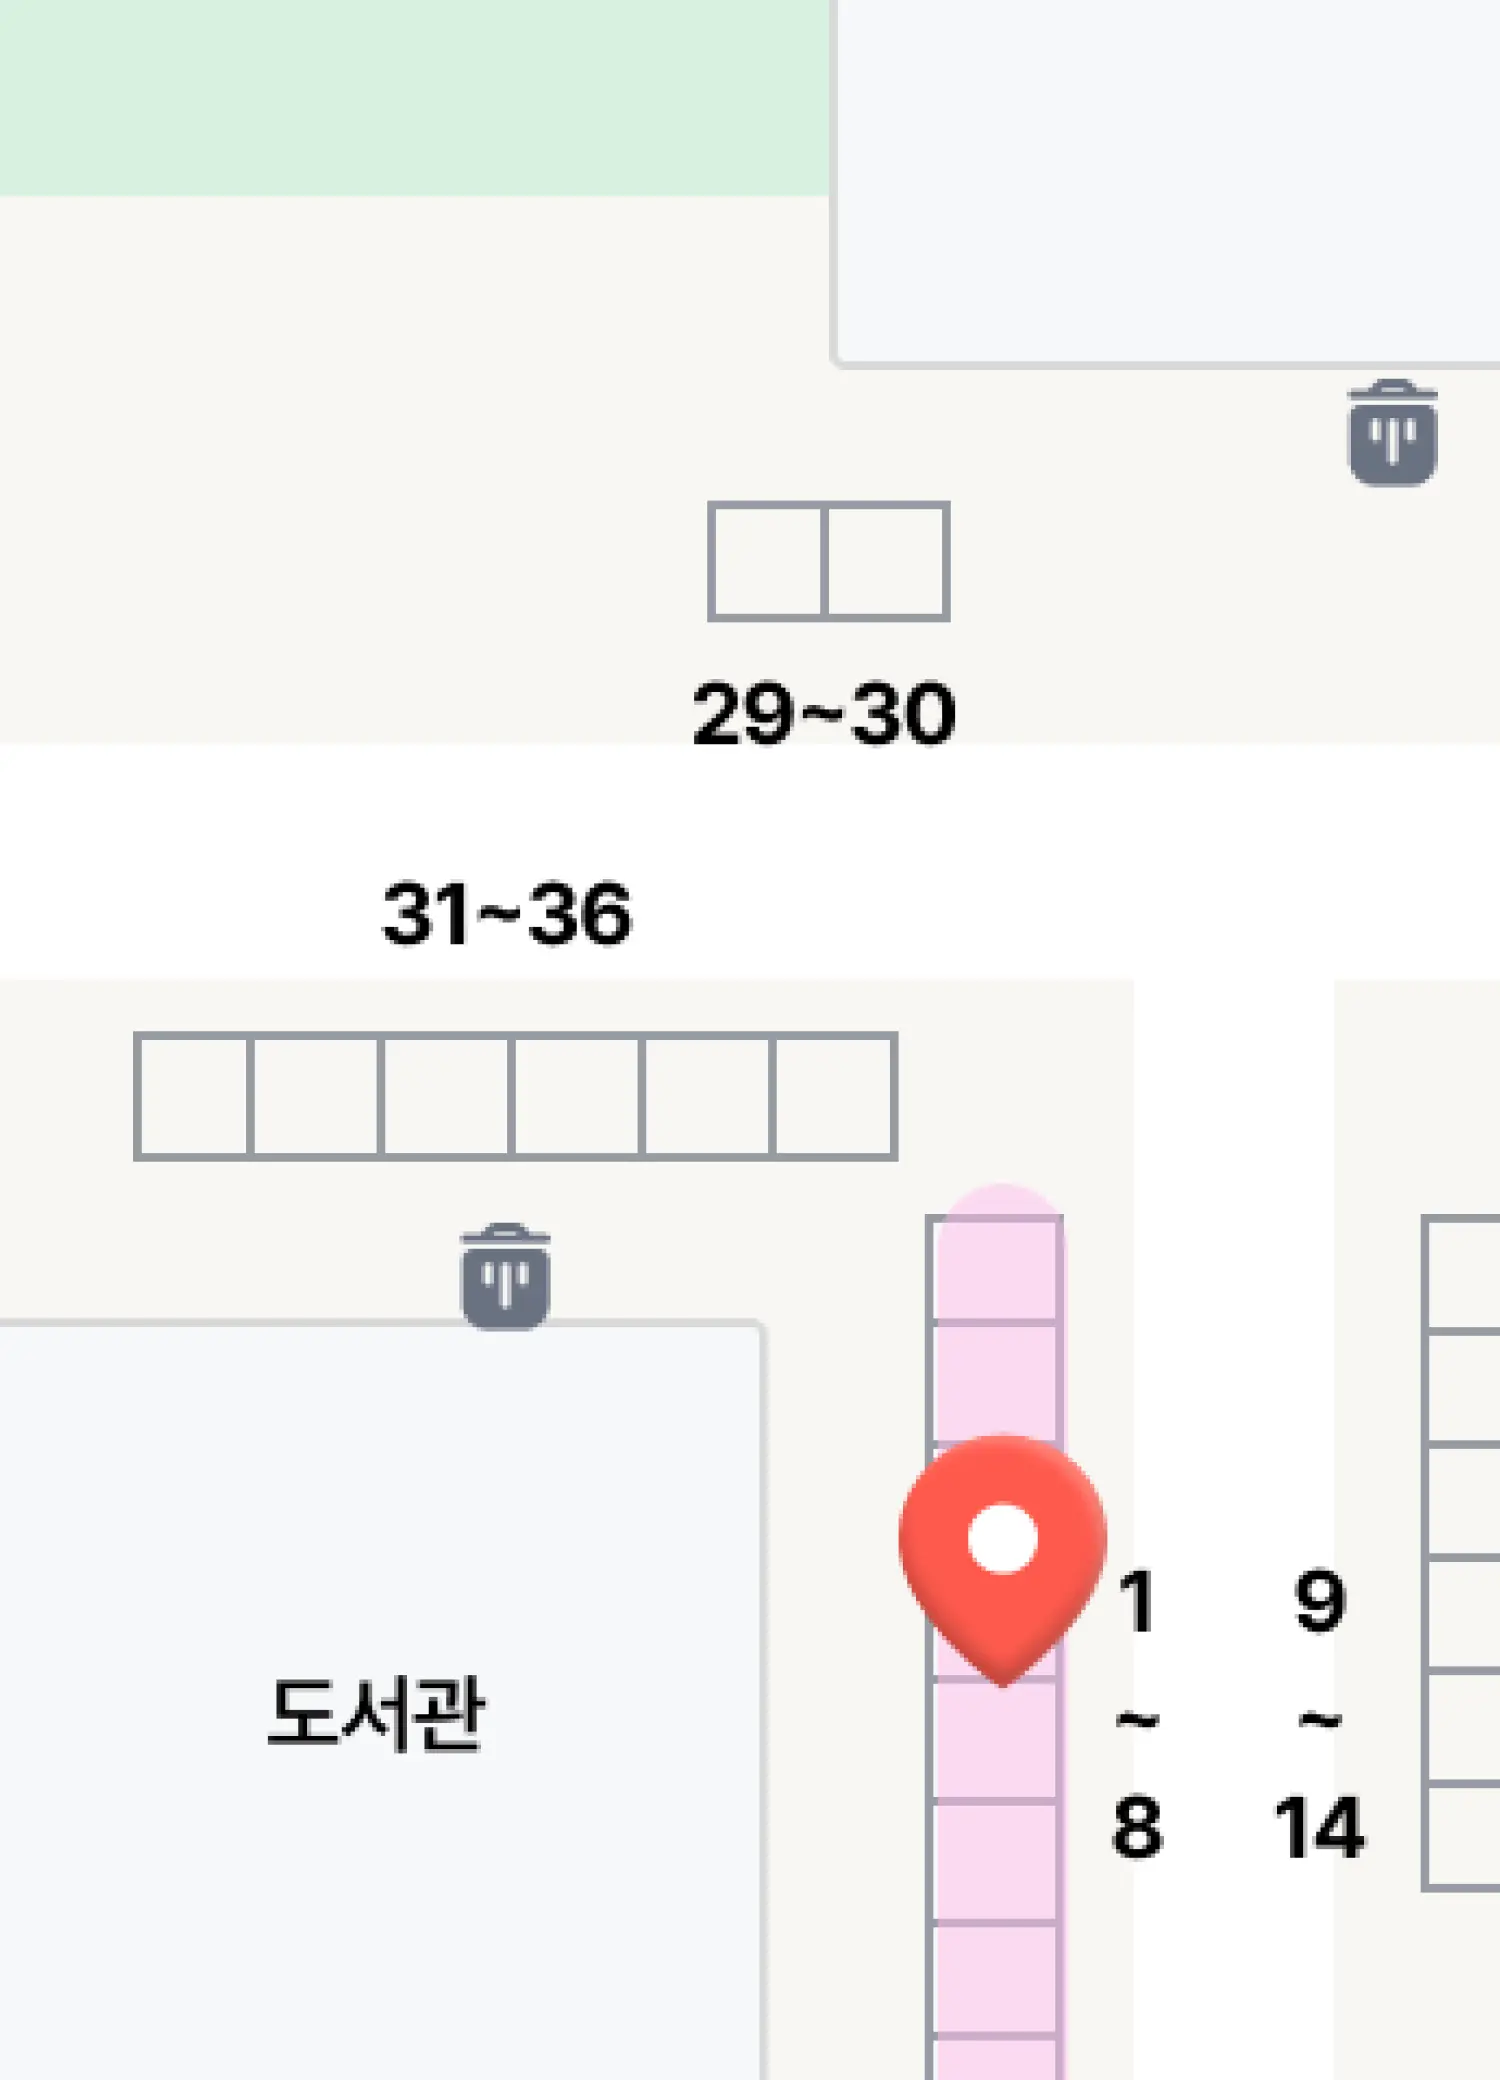
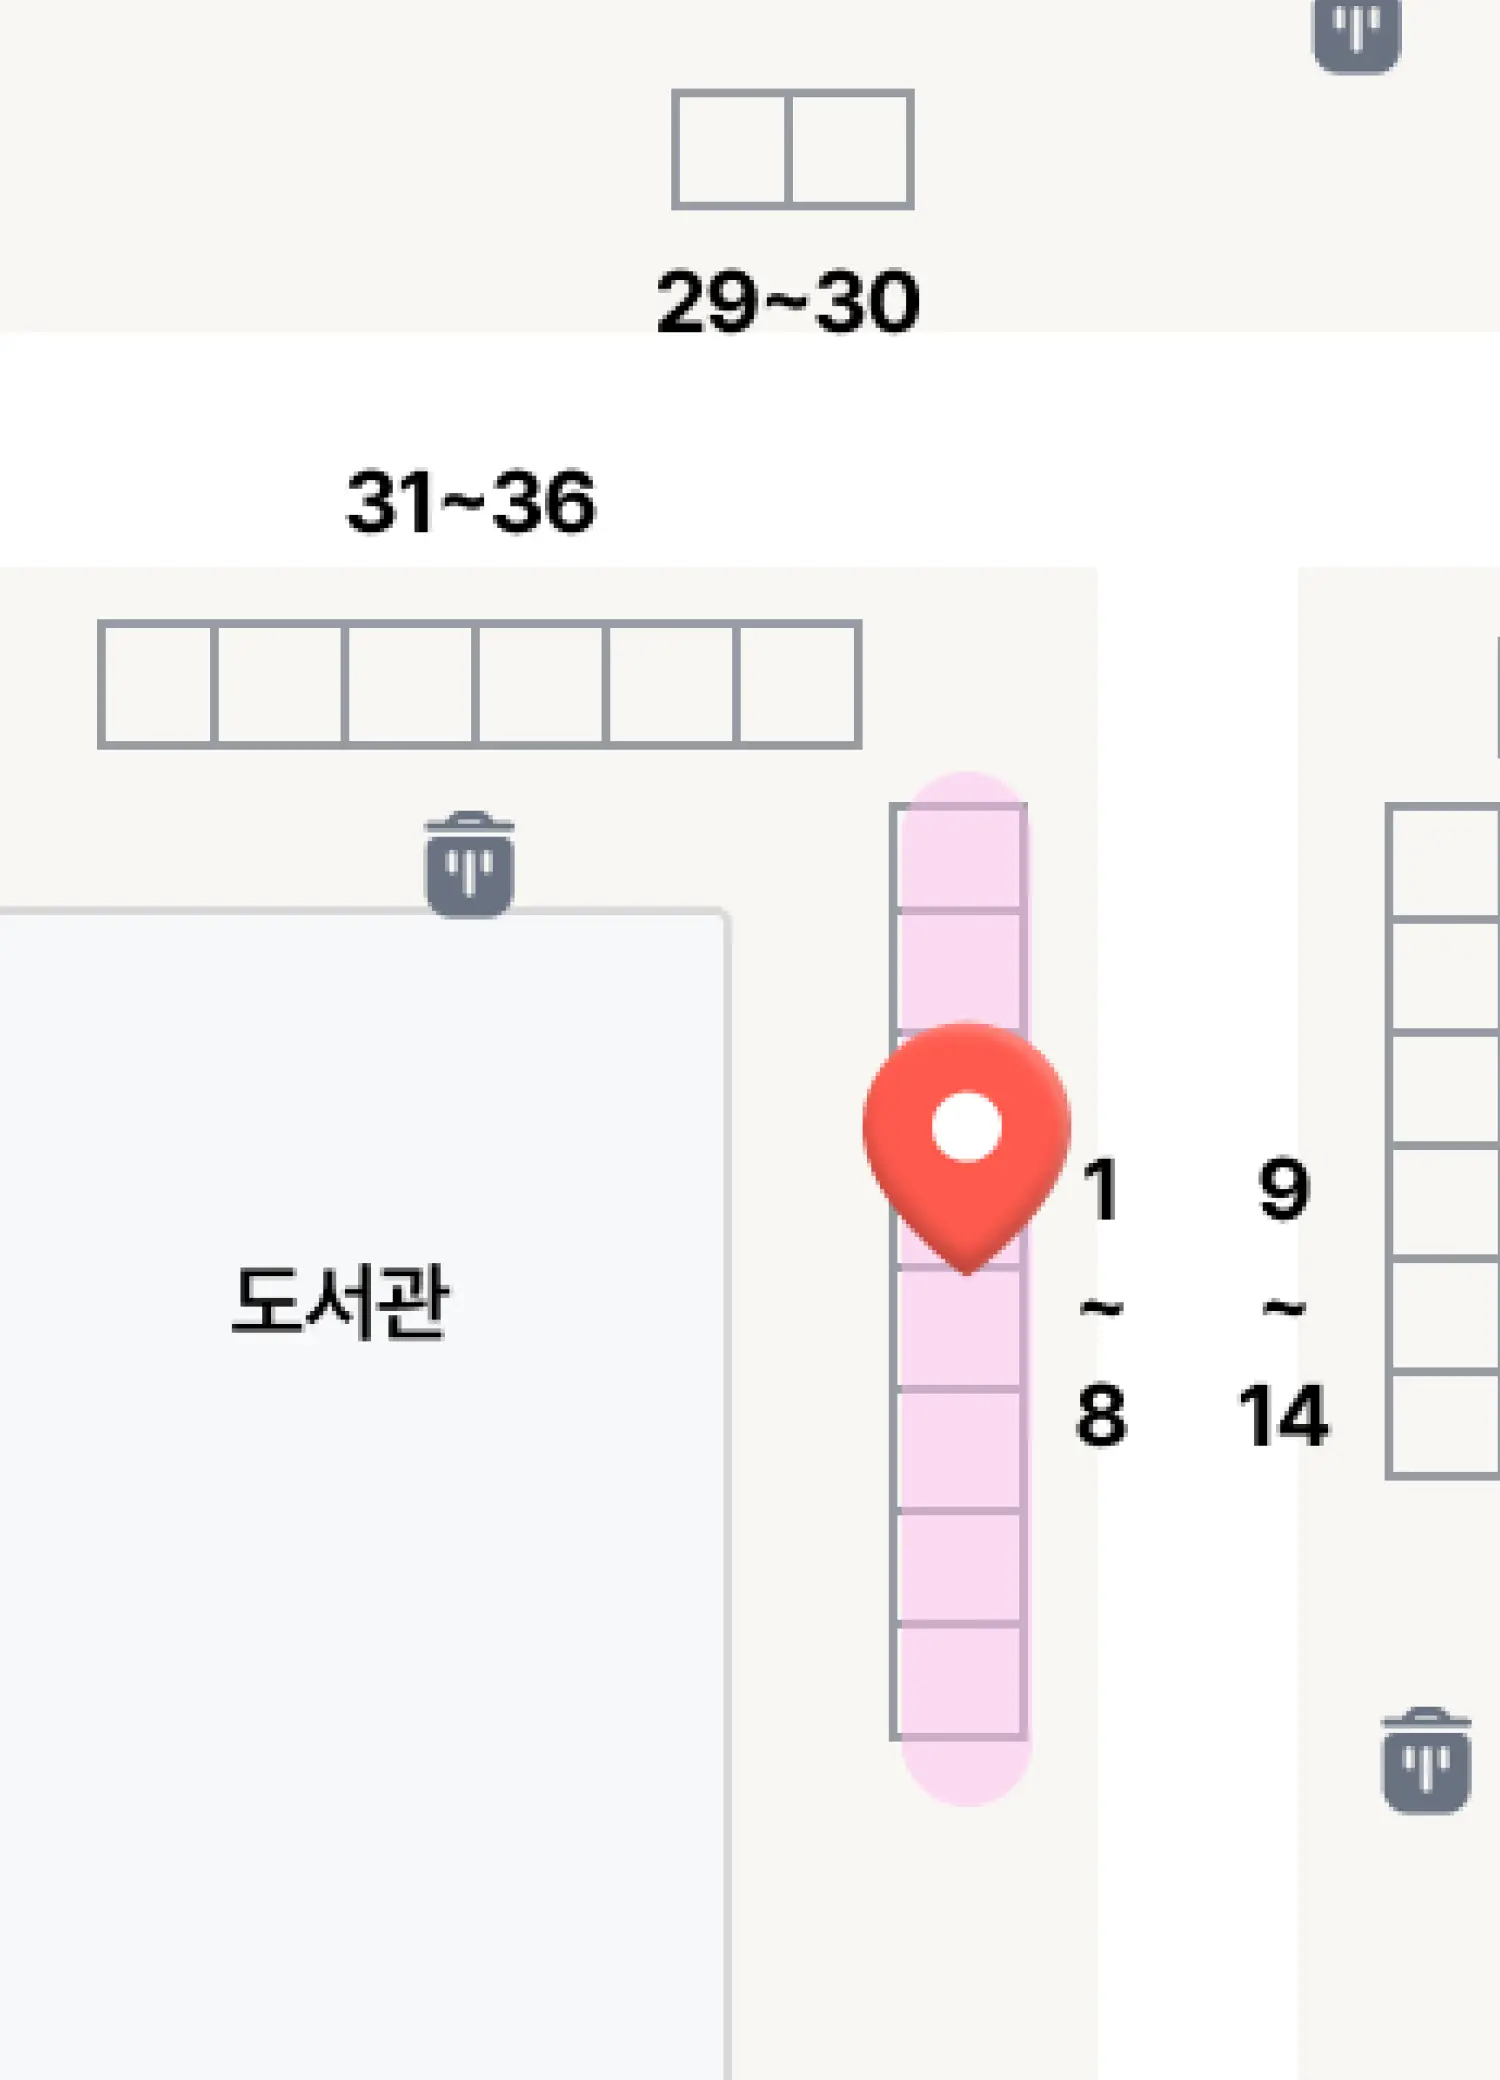
feat: 부스 지도 확대 부분 이미지 추가

diff --git a/public/index.html b/public/index.html
@@ -49,10 +49,7 @@
     <meta name="theme-color" content="#000000" />
     <meta name="description" content="Web site created using create-react-app" />
     <link rel="apple-touch-icon" href="%PUBLIC_URL%/logo192.png" />
-    <link
-    rel="stylesheet"
-    href="https://cdn.jsdelivr.net/gh/orioncactus/pretendard/dist/web/static/pretendard.css"
-  />
+    <link rel="stylesheet" href="https://cdn.jsdelivr.net/gh/orioncactus/pretendard/dist/web/static/pretendard.css" />
     <!--
       manifest.json provides metadata used when your web app is installed on a
       user's mobile device or desktop. See https://developers.google.com/web/fundamentals/web-app-manifest/

diff --git a/src/utils/boothMapImgMapping.ts b/src/utils/boothMapImgMapping.ts
@@ -75,8 +75,10 @@ export const mapBoothMapMagnifiedImg = (
       return '/images/booth/magnified/backdoor-booth-map-45-46.webp';
     } else if (47 <= selectedDayBoothNum && selectedDayBoothNum <= 54) {
       return '/images/booth/magnified/backdoor-booth-map-47-54.webp';
-    } else {
+    } else if (55 <= selectedDayBoothNum && selectedDayBoothNum <= 60) {
       return '/images/booth/magnified/backdoor-booth-map-55-60.webp';
+    } else {
+      return '/images/booth/magnified/backdoor-booth-map-61-64.webp';
     }
   }
   return '';

diff --git a/src/components/BottomSheet/innerContent/ItemListContent.tsx b/src/components/BottomSheet/innerContent/ItemListContent.tsx
@@ -222,5 +222,5 @@ const Info = styled.div`
 `;
 
 const VoidSpace = styled.div`
-  height: 160px;
+  height: 200px;
 `;
